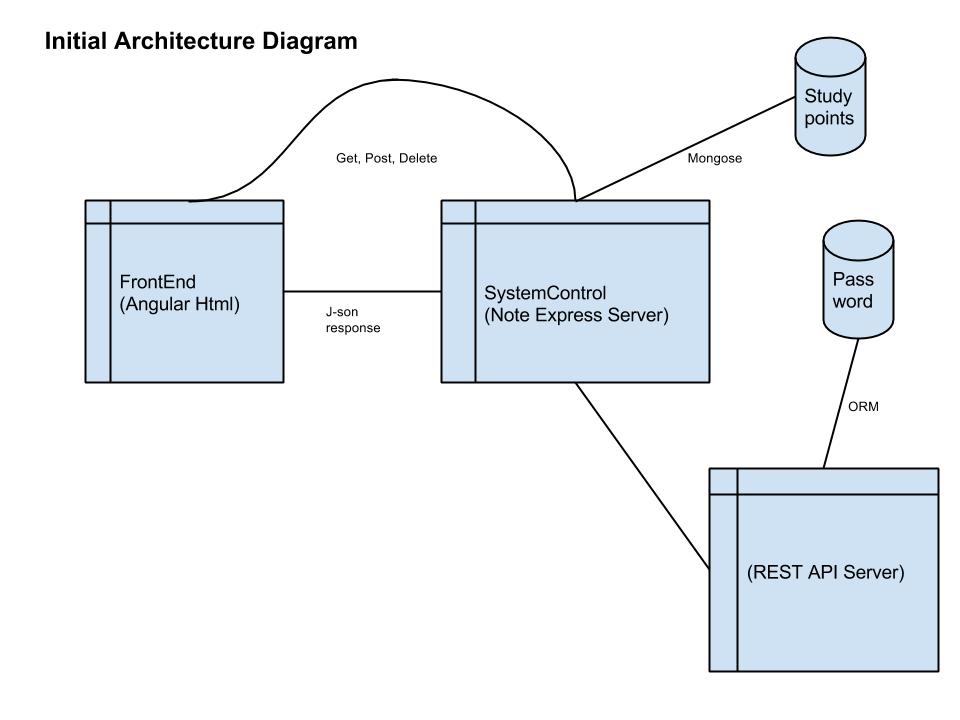
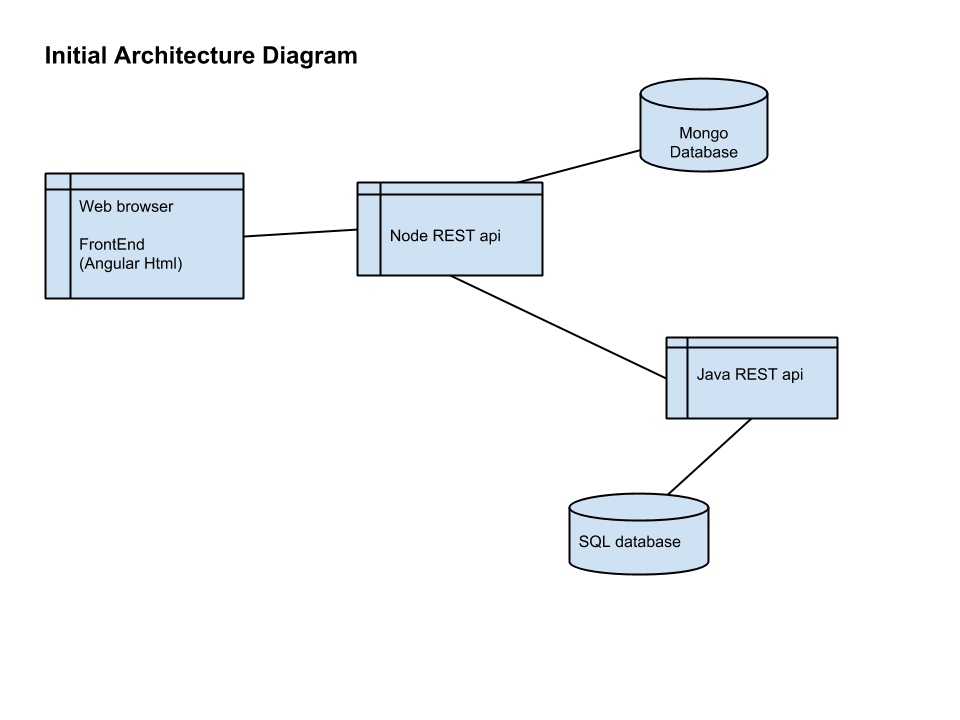
opdateret arkitektur diagammet, tilføjet sekevens diagram

diff --git a/index.html b/index.html
@@ -22,6 +22,8 @@
              <br/>
             <li><a href="dataModel.png" target="_self">Database diagram</a></li>
             <li><a href="initialarchitecturediagram.png" target="_self">Architecture Diagram</a></li>
+            <li><a href="SiteDiagram.png" target="_self">Site diagram</a></li>
+            <li><a href="Sequencediagram.png" target="_self">Sequence diagram</a></li>
             <br/>
             <li><a href="studentview.png" target="_self">UI Mock up Student</a></li>
             <li><a href="teacherview.png" target="_self">UI Mock up Teacher</a></li>
